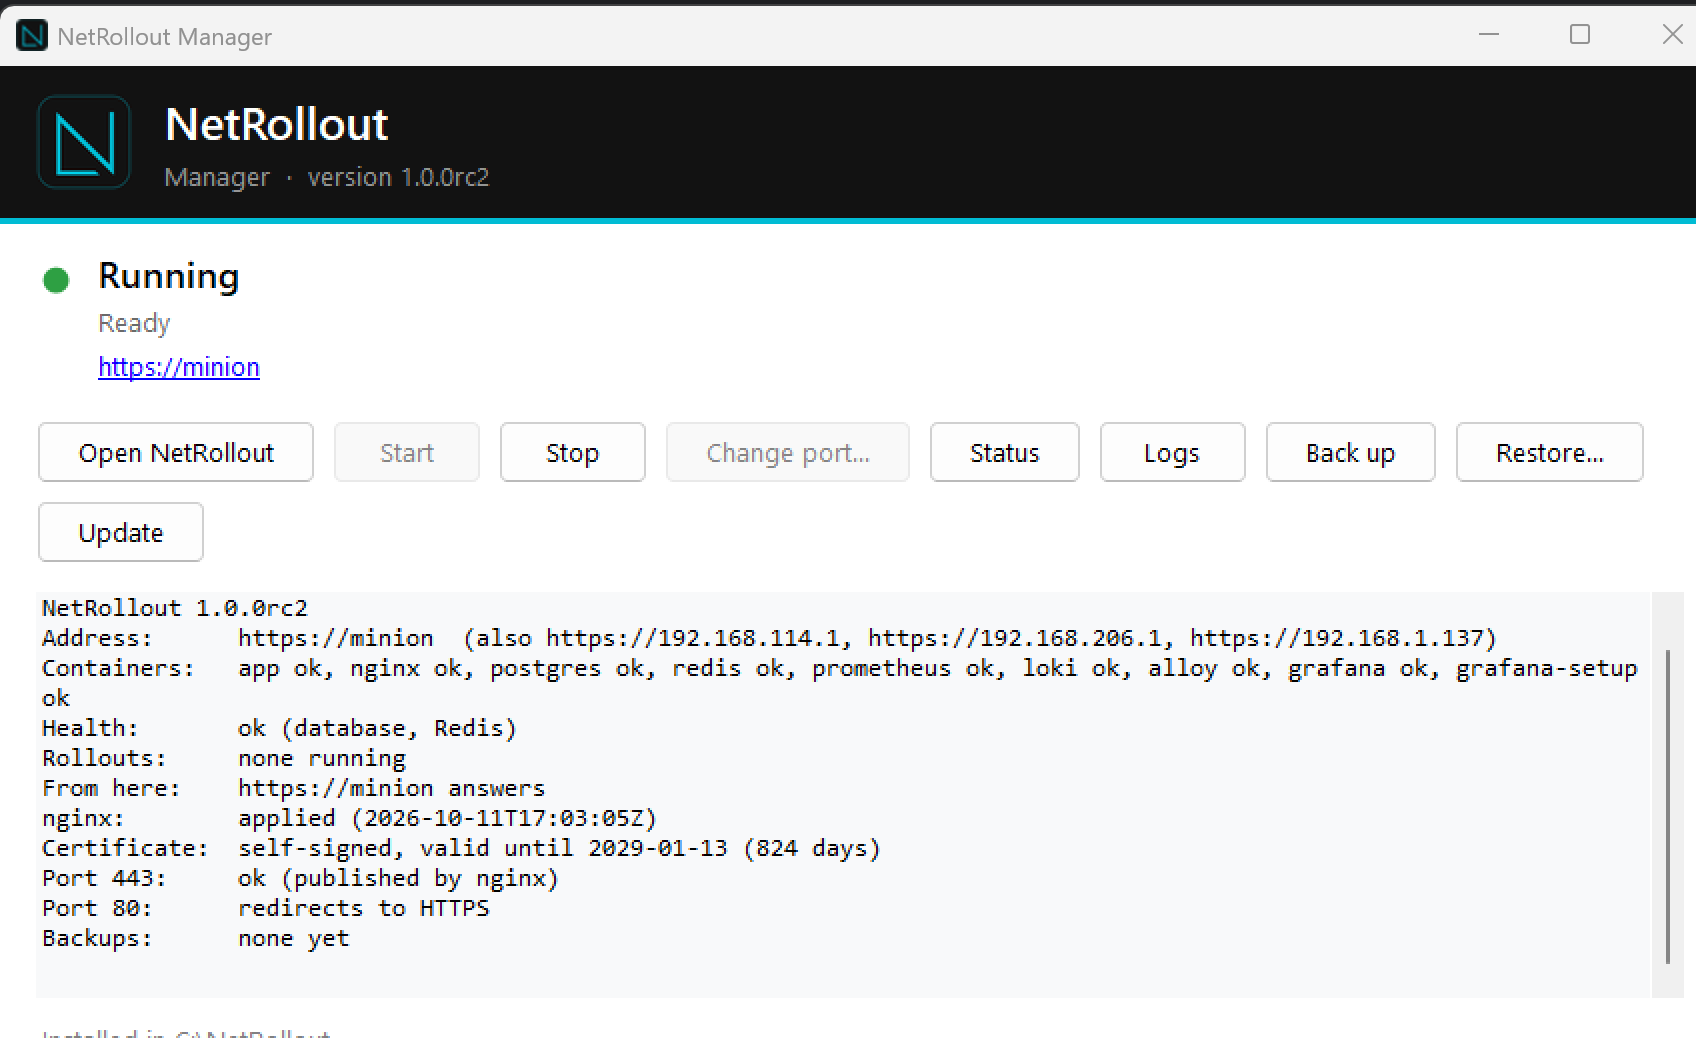
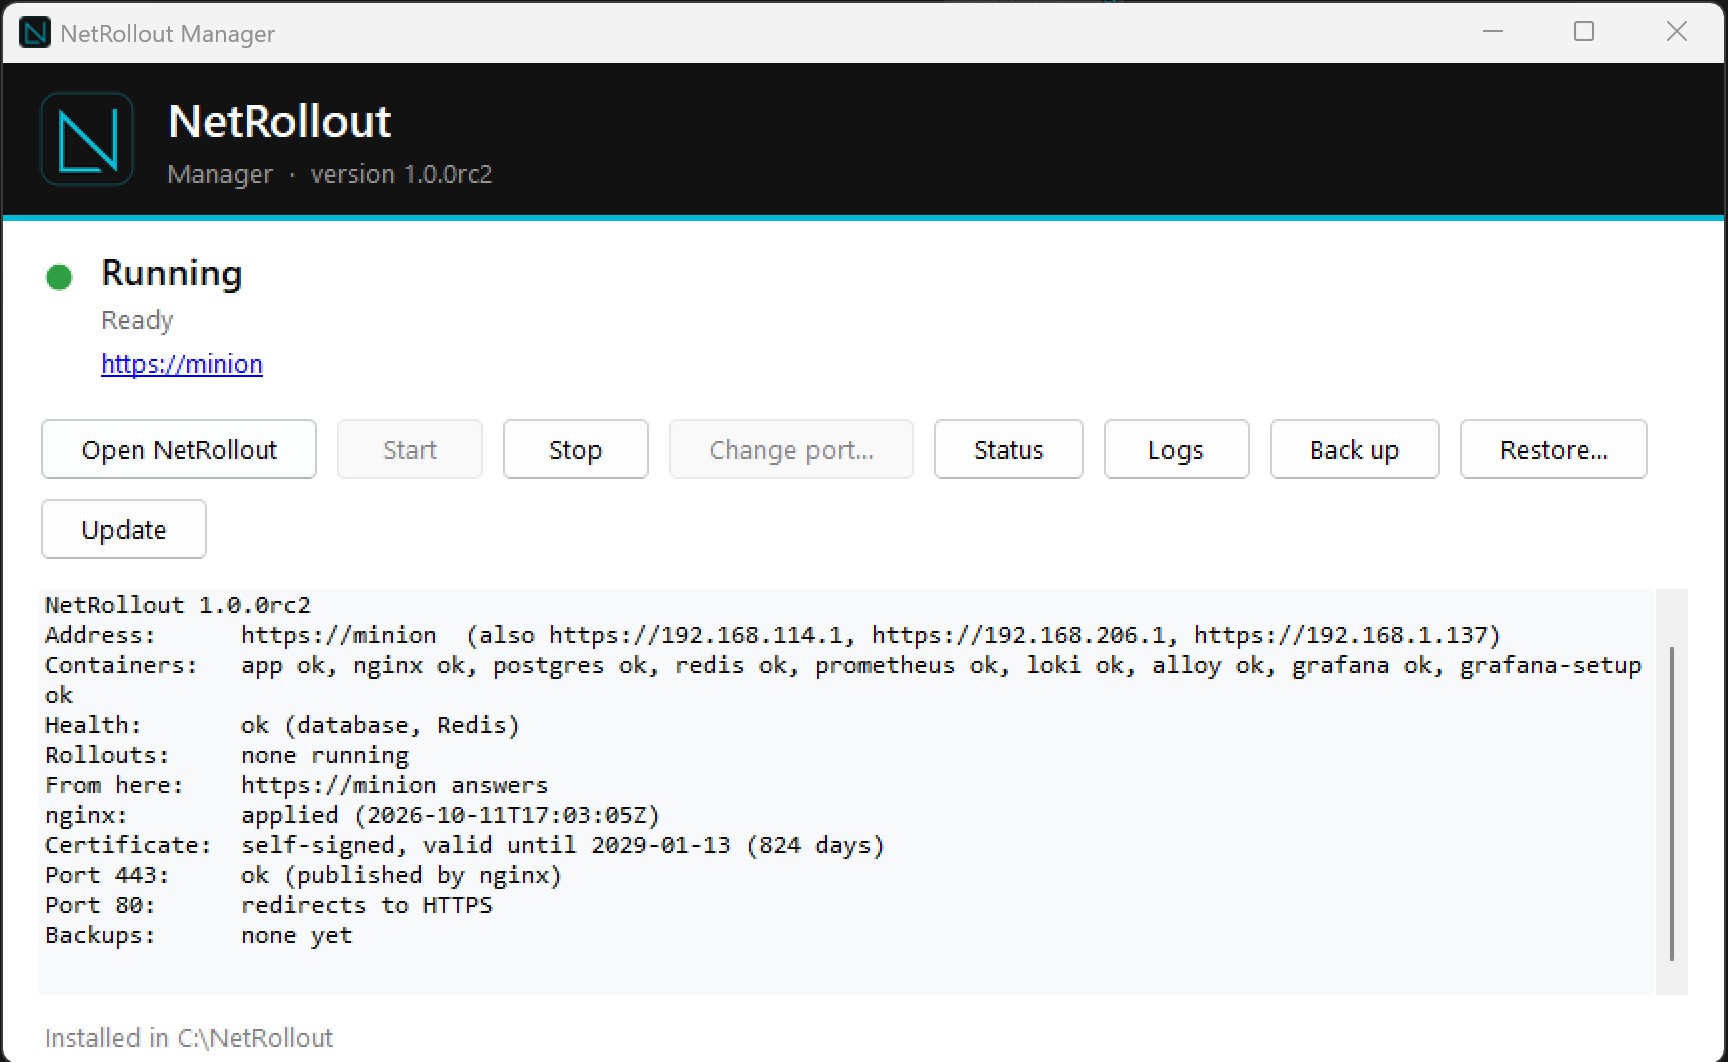
Docs: Setup's Settings page and the full Manager window
The developer retook both: Setup's Settings page (what Setup asks), as the
install guide's caption says, and NetRollout Manager's whole window.

diff --git a/docs/install.md b/docs/install.md
@@ -59,7 +59,7 @@ NetRollout doesn't enforce a minimum. As guidance for a virtual machine: about 4
 
 NetRollout Setup (`NetRollout-Setup-<version>.exe`) is the only way to install NetRollout on Windows. Download it from the [Releases page](https://github.com/itamar14-byte/NetRollout/releases). While NetRollout is at release candidate stage, the newest release is marked "Pre-release".
 
-![NetRollout Setup's review page: every choice before Install](images/setup.png)
+![NetRollout Setup's Settings page](images/setup.png)
 
 ### Before the first page
 
